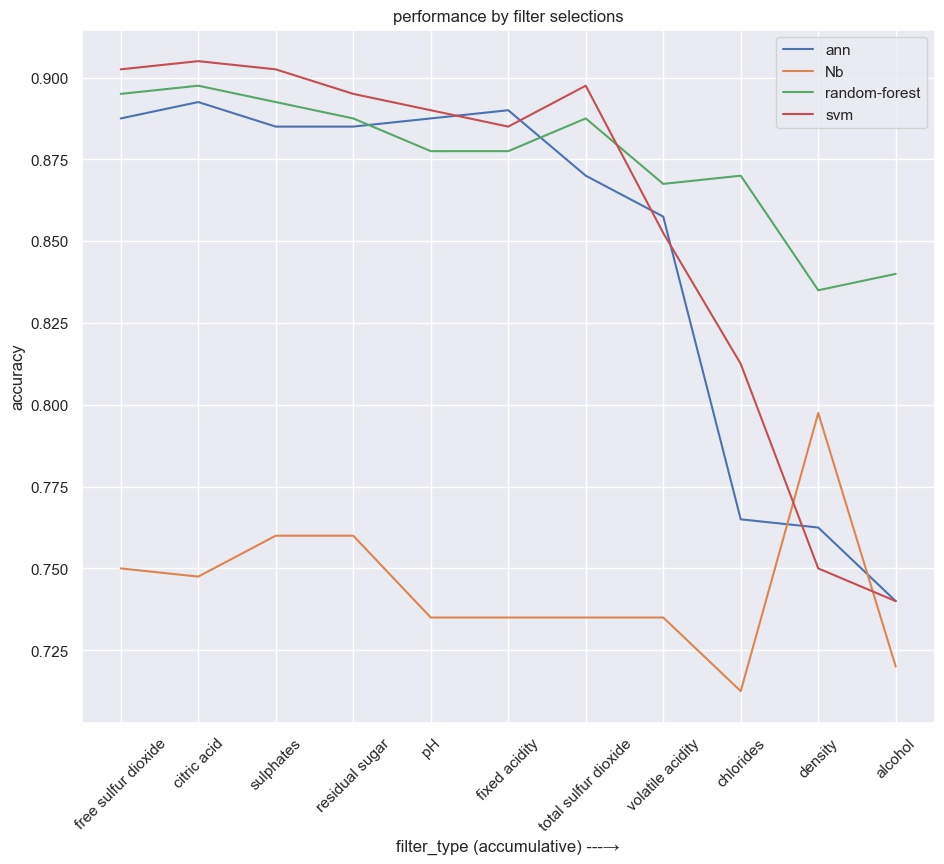
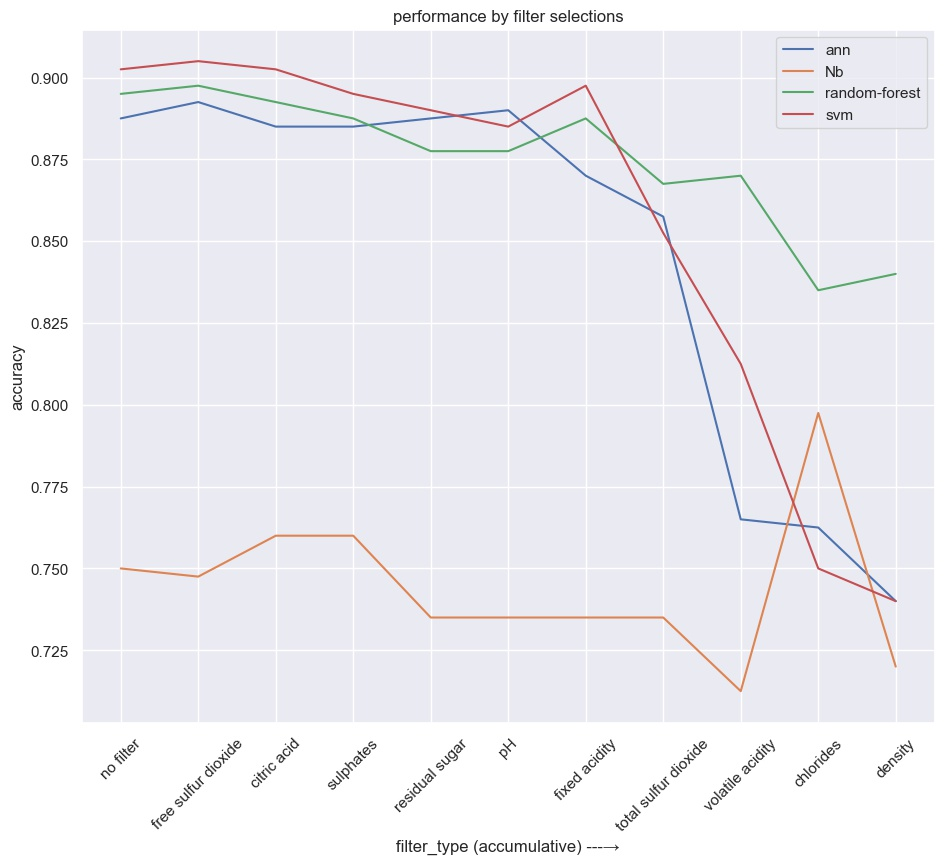
feat selection typo fix

diff --git a/utils/utils.py b/utils/utils.py
@@ -30,8 +30,8 @@ def load_data(stop_index):
 def plot_performance_by_filter():
     results = [i for i in os.listdir('../models') if i.endswith('score.npy')]
     base = pd.DataFrame(columns=['performance', 'filter_type'])
-    tmp = ['alcohol', 'density', 'chlorides', 'volatile acidity', 'total sulfur dioxide', 'fixed acidity', 'pH',
-           'residual sugar', 'sulphates', 'citric acid', 'free sulfur dioxide']
+    tmp = ['density', 'chlorides', 'volatile acidity', 'total sulfur dioxide', 'fixed acidity', 'pH',
+           'residual sugar', 'sulphates', 'citric acid', 'free sulfur dioxide','no filter']
     tmp.reverse()
     base['filter_type'] = tmp
     f, ax = plt.subplots(figsize=(11, 9))
